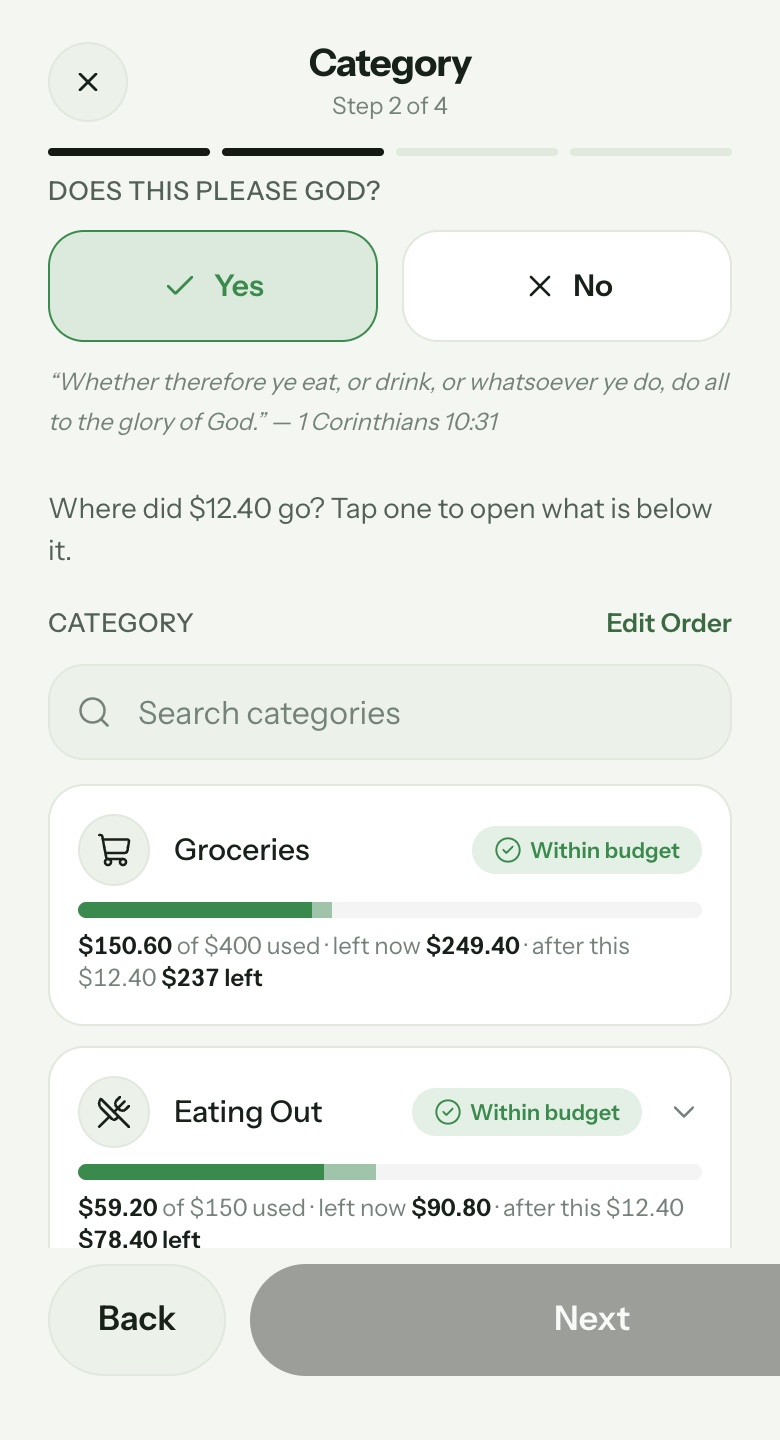
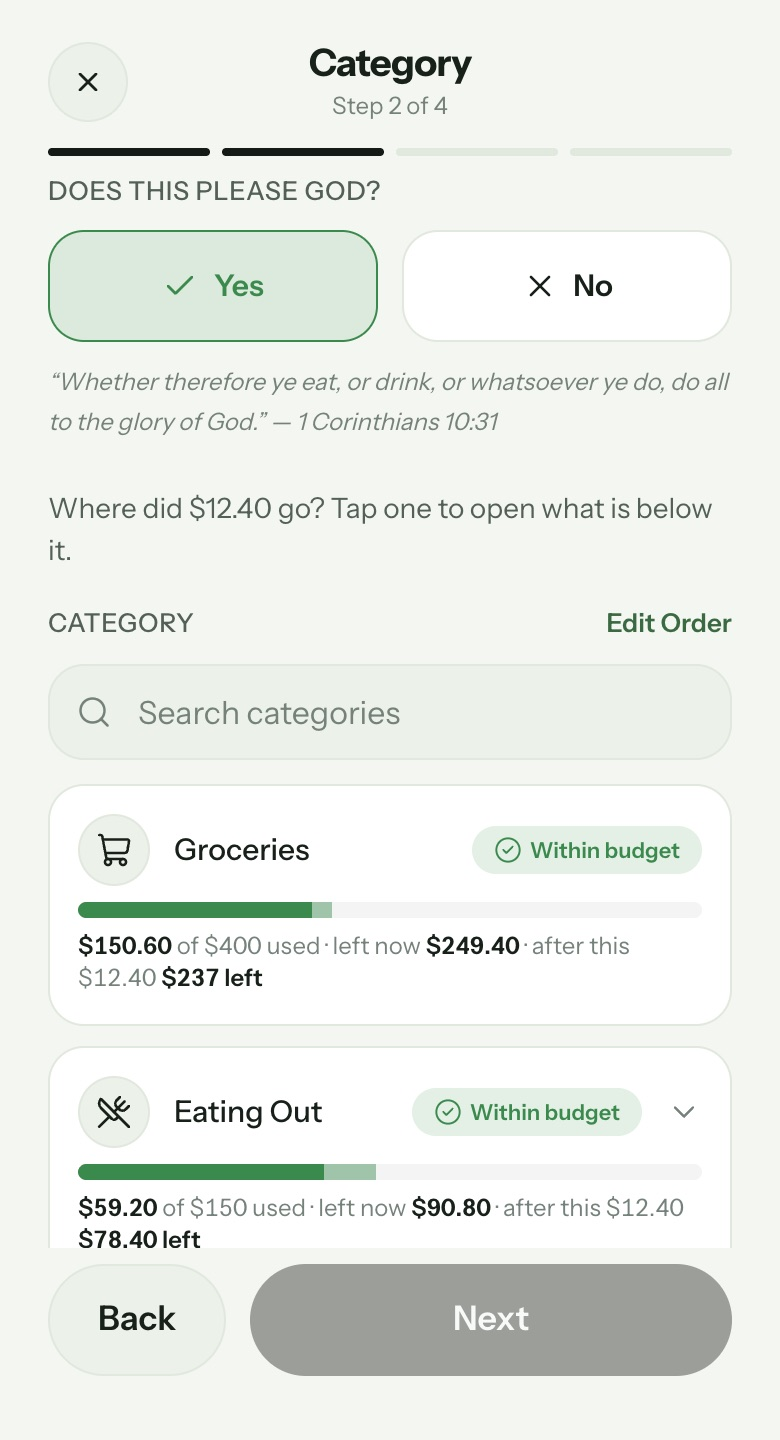
Landing: no Sign in or app links, no install-app tags, pill says Join the waiting list; link preview image (og-image.png at the site root); app: full-width buttons share a row (Next no longer runs off the edge)

Changed region(s): [[0.8923, 0.875, 1.0, 0.9688], [0.7077, 0.9062, 0.8, 0.9375], [0.5846, 0.9062, 0.6769, 0.9375]]

diff --git a/welcome/index.html b/welcome/index.html
@@ -10,6 +10,16 @@
     <meta property="og:title" content="Faithful Portion" />
     <meta property="og:description" content="Be faithful with every portion. Track spending, plan your month and get out of debt, one honest entry at a time." />
     <meta property="og:type" content="website" />
+    <meta property="og:url" content="https://faithfulportion.site/" />
+    <meta property="og:site_name" content="Faithful Portion" />
+    <meta property="og:image" content="https://faithfulportion.site/og-image.png" />
+    <meta property="og:image:width" content="1200" />
+    <meta property="og:image:height" content="630" />
+    <meta property="og:image:alt" content="Faithful Portion: be faithful with every portion. The app's home screen on a phone." />
+    <meta name="twitter:card" content="summary_large_image" />
+    <meta name="twitter:title" content="Faithful Portion" />
+    <meta name="twitter:description" content="Be faithful with every portion. Track spending, plan your month and get out of debt, one honest entry at a time." />
+    <meta name="twitter:image" content="https://faithfulportion.site/og-image.png" />
     <link rel="icon" type="image/svg+xml" href="./mark.svg" />
   </head>
   <body>
@@ -27,10 +37,7 @@
           <a href="#compare">Why us</a>
           <a href="#faq">Questions</a>
         </nav>
-        <div class="nav-actions">
-          <a class="nav-signin" href="/app/" data-app-link>Sign in</a>
-          <a class="btn btn-dark btn-sm" href="#join">Join<span class="long">&nbsp;the waiting list</span></a>
-        </div>
+        <a class="btn btn-dark btn-sm" href="#join">Join<span class="long">&nbsp;the waiting list</span></a>
       </div>
     </header>
 
@@ -39,7 +46,7 @@
       <section class="hero">
         <div class="wrap hero-grid">
           <div class="hero-copy">
-            <p class="eyebrow reveal"><span class="dot"></span> Opening soon · Join the waiting list</p>
+            <p class="eyebrow reveal"><span class="dot"></span> Join the waiting list</p>
             <h1 class="reveal">Be faithful with <em>every</em> portion.</h1>
             <p class="lead reveal">
               A calm, simple way to track what you spend, plan your month and get out of debt.
@@ -398,7 +405,7 @@
       <div class="wrap foot-in">
         <a class="brand" href="#top"><span class="mark" aria-hidden="true"></span><span>Faithful Portion</span></a>
         <p class="disclaimer">Screens and features shown are for display and may change before launch.</p>
-        <p class="copy"><a href="/app/" data-app-link>Open the app</a> · © <span id="year">2026</span> Faithful Portion</p>
+        <p class="copy">© <span id="year">2026</span> Faithful Portion</p>
       </div>
     </footer>
 

diff --git a/src/components/ui/button.tsx b/src/components/ui/button.tsx
@@ -18,8 +18,9 @@ const buttonVariants = cva(
       },
       size: {
         /** The big full-width action button used across the app. */
-        default: 'w-full h-14 rounded-full text-[17px]',
-        xl: 'w-full h-14 rounded-full text-[17px]',
+        // Full width on its own; shares the row evenly when another button sits beside it.
+        default: 'w-full shrink min-w-0 h-14 rounded-full text-[17px]',
+        xl: 'w-full shrink min-w-0 h-14 rounded-full text-[17px]',
         lg: 'h-12 rounded-full px-6 text-[16px]',
         md: 'h-11 rounded-full px-5 text-[15px]',
         sm: 'h-9 rounded-full px-4 text-[14px]',

diff --git a/src/components/add/ExpenseWizard.tsx b/src/components/add/ExpenseWizard.tsx
@@ -472,11 +472,11 @@ export function ExpenseWizard({ onDone, onCancel, preset, modeSwitch }: ExpenseW
           </Button>
         )}
         {isLast ? (
-          <Button onClick={() => handleSave()} disabled={saving || !valid}>
+          <Button onClick={() => handleSave()} disabled={saving || !valid} className="!w-auto flex-1 min-w-0">
             Save Expense
           </Button>
         ) : (
-          <Button onClick={() => go(step + 1)} disabled={!valid}>
+          <Button onClick={() => go(step + 1)} disabled={!valid} className="!w-auto flex-1 min-w-0">
             Next
           </Button>
         )}

diff --git a/welcome/main.ts b/welcome/main.ts
@@ -8,9 +8,6 @@ import './welcome.css'
 
 document.documentElement.classList.add('js')
 
-// Links to the app: /app/ on the live site (built with that base), the dev server's root locally.
-document.querySelectorAll<HTMLAnchorElement>('[data-app-link]').forEach((a) => (a.href = import.meta.env.BASE_URL))
-
 const year = document.getElementById('year')
 if (year) year.textContent = String(new Date().getFullYear())
 
